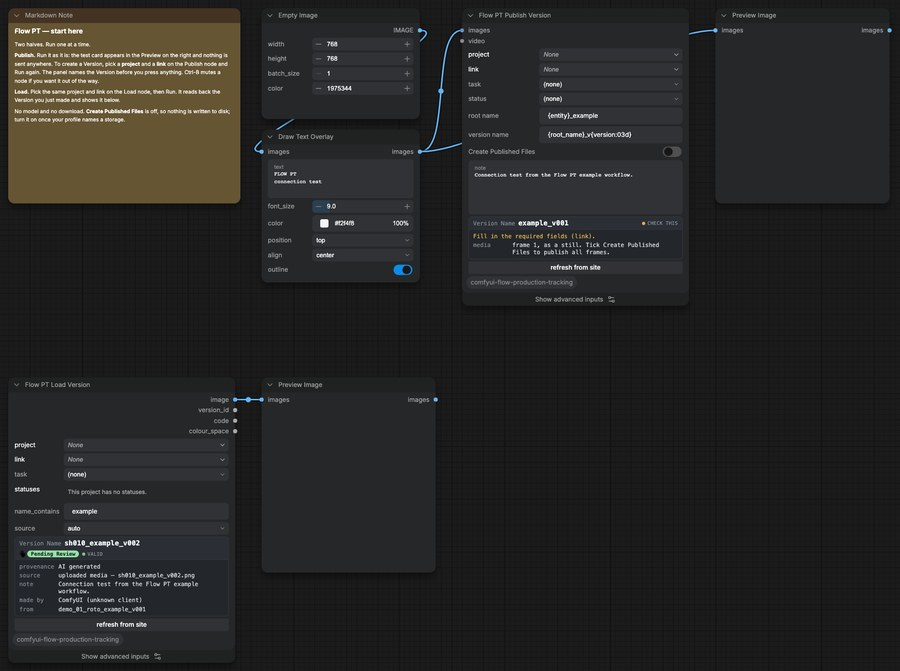
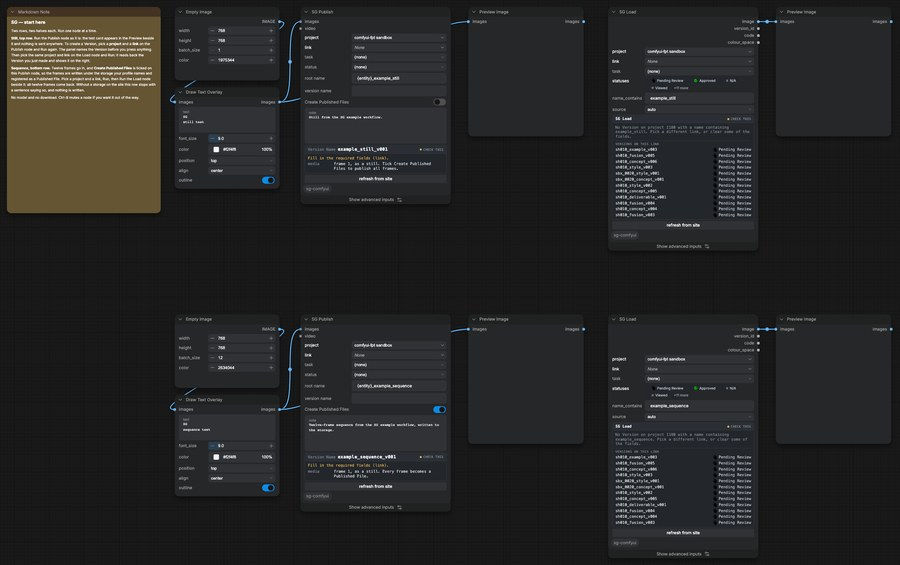
00_example has a sequence row, so the storage half can be tested from the template
Two rows: a still on top, twelve frames below with Create Published Files ticked, each with its
Publish on the left and its Load on the right, and room under each for the advanced fold. Root
names example_still and example_sequence; the Load nodes read those back. The panel's media
sentence honours the switch: every frame becomes a Published File when it is on.

Claude-Session: https://claude.ai/code/session_01MwFkDPjc7RmqvNCP6967ir

diff --git a/src/comfyui_sg/routes.py b/src/comfyui_sg/routes.py
@@ -639,6 +639,8 @@ def register():
                 media = "the clip"
                 if _wired(w, "images"):
                     media += ". The frames become Published Files."
+            elif _wired(w, "images") and w.get("register_files"):
+                media = "frame 1, as a still. Every frame becomes a Published File."
             elif _wired(w, "images"):
                 media = "frame 1, as a still. Tick Create Published Files to publish all frames."
             else:
